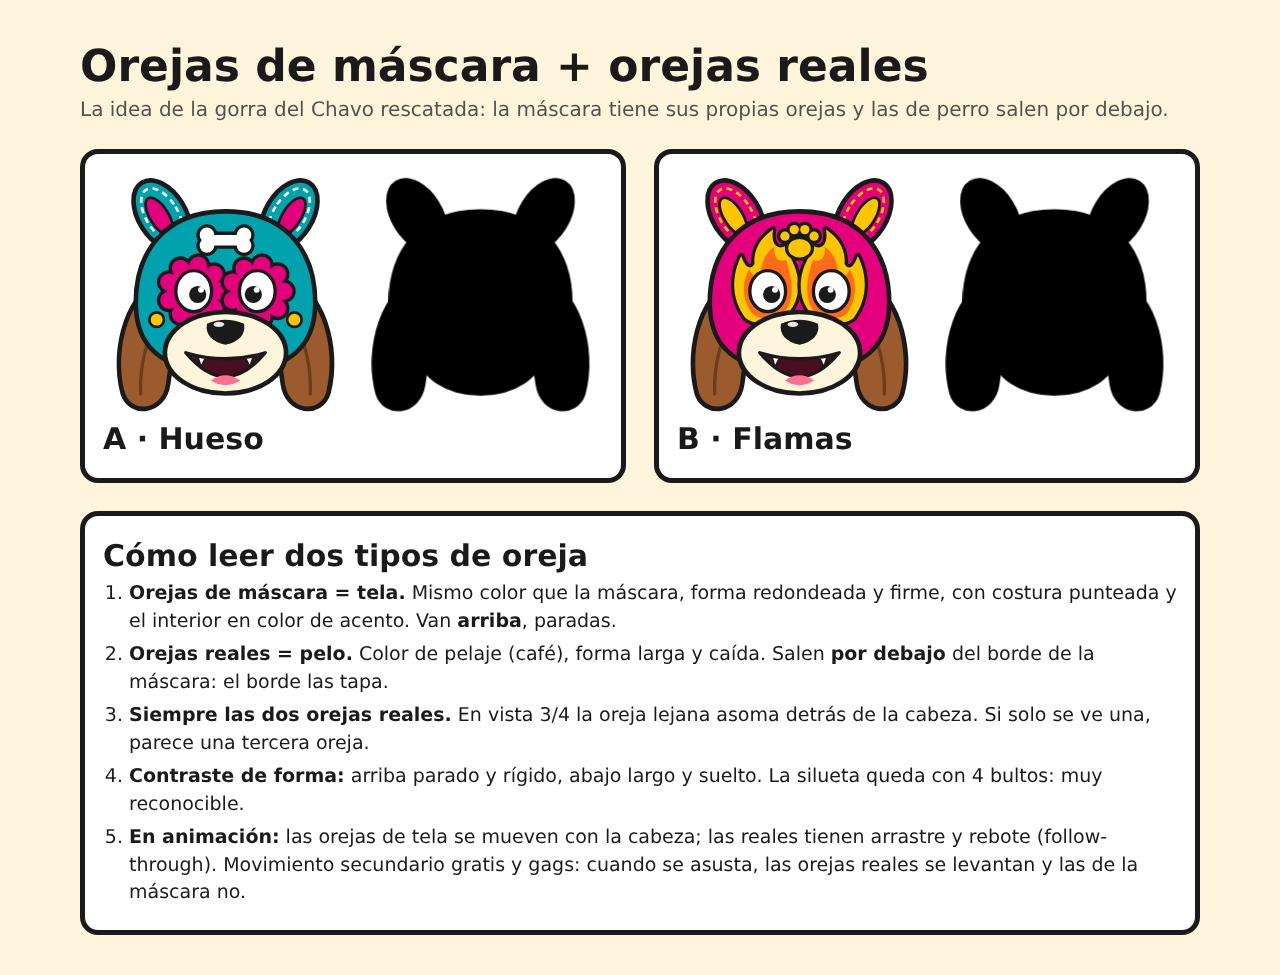
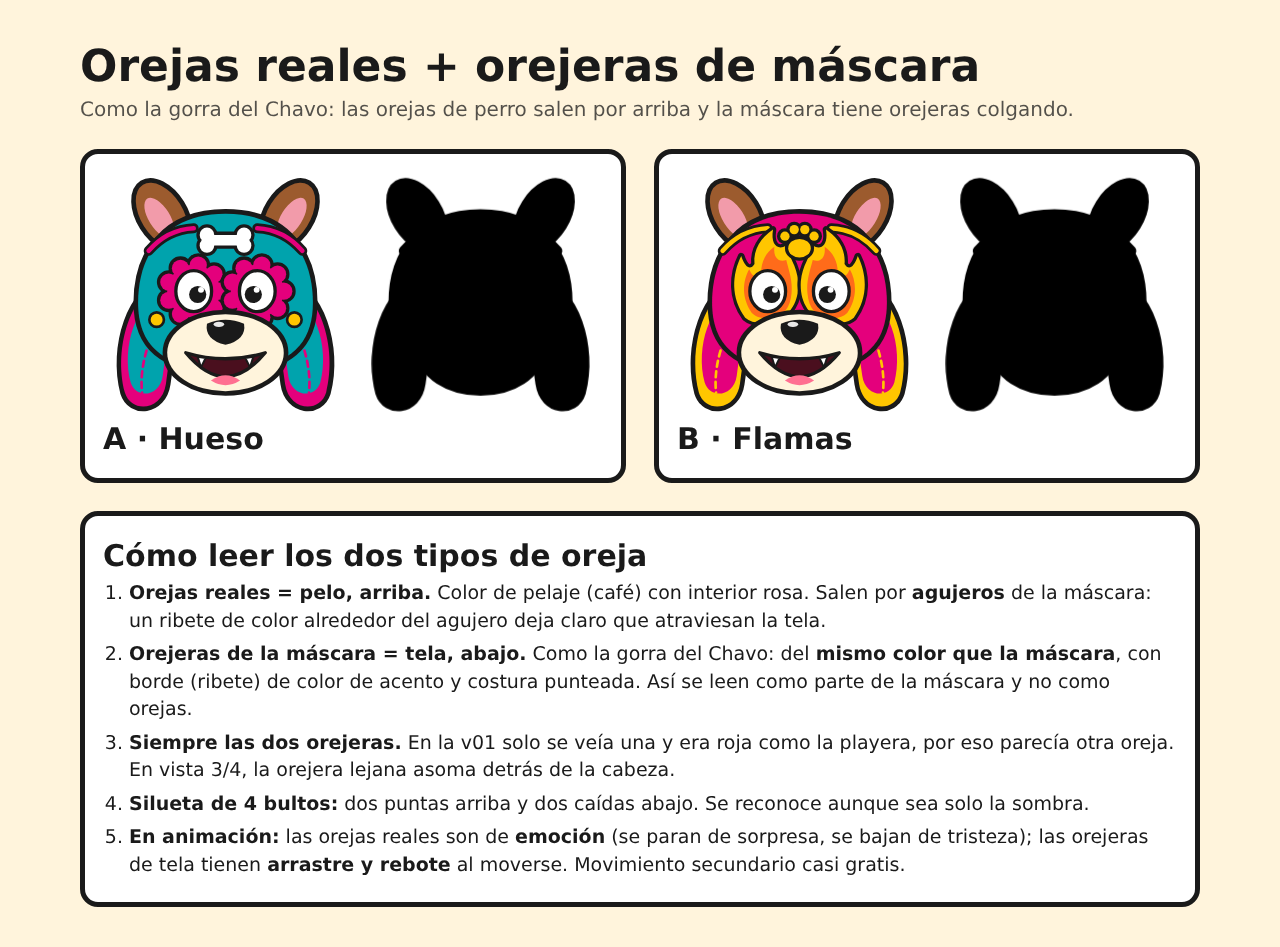
Corregir propuesta de orejas: reales arriba, orejeras de máscara abajo
Claude-Session: https://claude.ai/code/session_013vUgDSMrMZ1bS5dk44Avbx

diff --git a/proyectos/mascota-youtube/referencias/propuestas/LEEME.md b/proyectos/mascota-youtube/referencias/propuestas/LEEME.md
@@ -3,7 +3,7 @@
 - [mascaras.png](mascaras.png): 4 máscaras (A Hueso, B Flamas, C Campeón, D Cempasúchil) con prueba de avatar.
 - [paletas.png](paletas.png): 3 paletas mexicanas con códigos de color.
 - [loteria.png](loteria.png): idea de branding, la mascota como carta de lotería.
-- [orejas.png](orejas.png): orejas de máscara (tipo gorra del Chavo) + orejas reales de perro, con silueta y reglas.
+- [orejas.png](orejas.png): orejas reales de perro arriba (salen por agujeros de la máscara) + orejeras de tela colgando, tipo gorra del Chavo. Con silueta y reglas.
 - `mask_A.svg` … `mask_D.svg`: archivos vectoriales de cada máscara.
 
 Son solo puntos de partida: mezcla elementos (por ejemplo, la forma de C con el hueso de A) y redibuja en tu estilo.

diff --git a/proyectos/mascota-youtube/fichas/mascota_v01.md b/proyectos/mascota-youtube/fichas/mascota_v01.md
@@ -48,7 +48,7 @@ El diseño v01 tiene línea de boceto con rayado, colores primarios y una másca
 ## Simplificaciones para animar
 - Ojos: blanco + pupila + un solo brillo (quitar el iris degradado).
 - Boca: menos dientes; diseñar 4–5 formas de boca para el lip sync.
-- Orejas: decidir si son del perro o de la máscara. La oreja larga roja se lee como una tercera oreja.
+- Orejas: las de arriba son las reales y las largas son orejeras de la máscara (tipo gorra del Chavo). Hacer las orejeras del color de la máscara con ribete, y mostrar siempre las dos. Ver [orejas.png](../referencias/propuestas/orejas.png).
 - Cinturón de **campeón** (hebilla grande): da mucha identidad luchadora con poco costo.
 
 ## Ejercicios en Clip Studio
